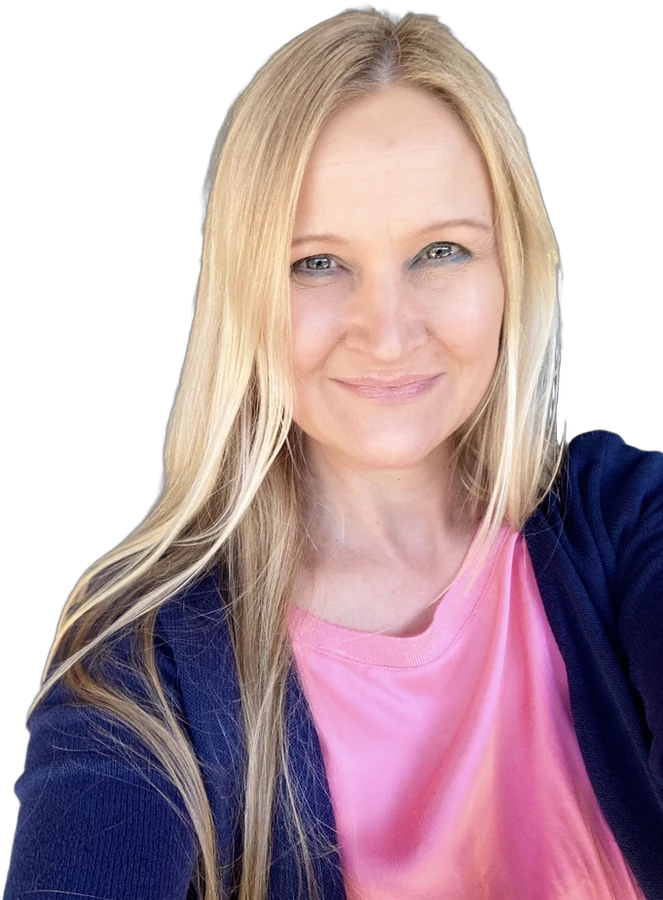
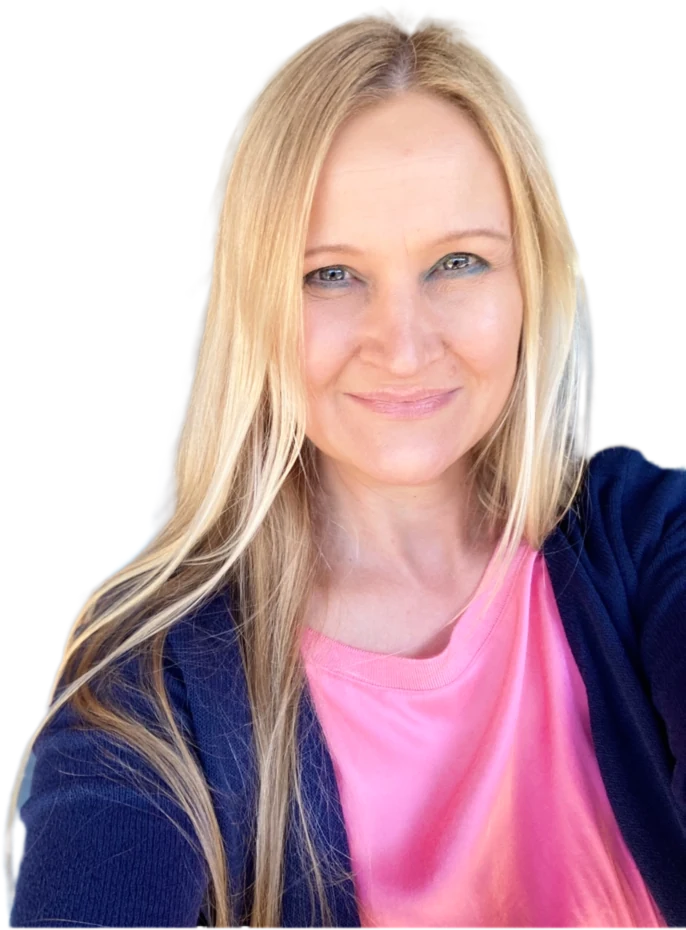
fix: portrait was invisible on the landing and Über-mich pages
Aquarell sets "relative" on its own wrapper, and Tailwind emits .relative
after .absolute, so the "absolute inset-0" passed in from outside lost the
cascade. The wrapper stayed in flow with no height while its only child —
the fill image — was absolutely positioned, leaving nothing to see.

Both call sites now size the wrapper with aspect-3/4 instead of positioning
it, and the component documents the trap.

Also replaces the portrait with the Fotor cut-out Felix supplied, trimmed
of its transparent margin and converted to WebP (87 KB).

diff --git a/app/ueber-mich/page.tsx b/app/ueber-mich/page.tsx
@@ -22,12 +22,12 @@ export default function UeberMich() {
           <div className="grid items-center gap-14 md:grid-cols-12">
             <Reveal className="md:col-span-5">
               {/* Freigestelltes Porträt vor einem weichen Aquarellkreis */}
-              <div className="relative mx-auto aspect-3/4 w-full max-w-sm">
+              <div className="relative mx-auto w-full max-w-sm">
                 <div className="watercolor top-4 left-1/2 h-72 w-72 -translate-x-1/2 bg-sage/70" />
                 <Aquarell
                   src="/bilder/isabelle.webp"
                   alt="Porträt von Isabelle Kroppenstedt"
-                  className="absolute inset-0"
+                  className="aspect-3/4 w-full"
                   rounded="rounded-none"
                   blend={false}
                   fit="object-contain"

diff --git a/app/page.tsx b/app/page.tsx
@@ -337,12 +337,12 @@ export default function Home() {
             <Reveal className="md:col-span-5">
               {/* Freigestelltes Porträt – steht ohne Rahmen auf der Fläche,
                   hinterlegt von einem weichen Aquarellkreis. */}
-              <div className="relative mx-auto aspect-3/4 w-full max-w-sm">
+              <div className="relative mx-auto w-full max-w-sm">
                 <div className="watercolor top-6 left-1/2 h-64 w-64 -translate-x-1/2 bg-sage/70" />
                 <Aquarell
                   src="/bilder/isabelle.webp"
                   alt="Porträt von Isabelle Kroppenstedt"
-                  className="absolute inset-0"
+                  className="aspect-3/4 w-full"
                   rounded="rounded-none"
                   blend={false}
                   fit="object-contain"

diff --git a/components/Aquarell.tsx b/components/Aquarell.tsx
@@ -7,6 +7,11 @@ import Image from 'next/image';
  * globals.css) blendet dieses Weiß per mix-blend-mode in den Seitenhintergrund
  * ein, sodass kein weißer Kasten stehen bleibt. Deshalb gehört diese
  * Komponente nur auf helle Flächen, nicht in den dunklen Abschnitt.
+ *
+ * ACHTUNG: Der Rahmen setzt selbst "relative". Über className KEIN "absolute"
+ * mitgeben – Tailwind stellt .relative im CSS hinter .absolute, das Bild
+ * verliert dadurch seine Höhe und verschwindet. Größe stattdessen über
+ * aspect-* und w-* an className übergeben.
  */
 export default function Aquarell({
   src,
